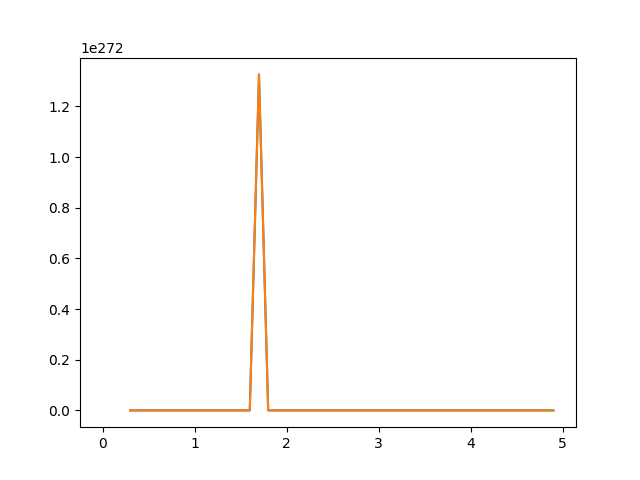
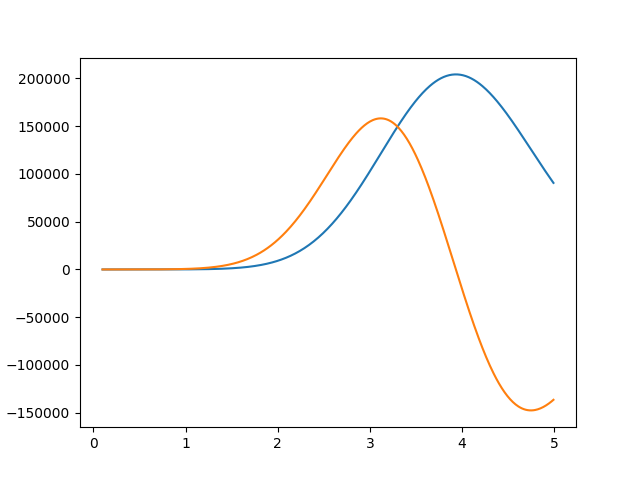
less_10

diff --git a/lab_10_doptask_2.py b/lab_10_doptask_2.py
@@ -2,15 +2,15 @@ import numpy as np
 from scipy.integrate import odeint
 import matplotlib.pyplot as plt
 
-x=np.arange(0,5,0.1)
+x=np.arange(0.1,5,0.01)
 
 def func(w,x):
     y,z = w
     dydx = z
-    dzdx = (z**2-((3*y**2)/x**(1/2)))/y
+    dzdx= (z**2-((3*y**2)/x**(1/2)))/y
     return dydx, dzdx
 
-y0 = 0
+y0 = 0.1
 z0 = 1
 w0 = y0, z0
 
